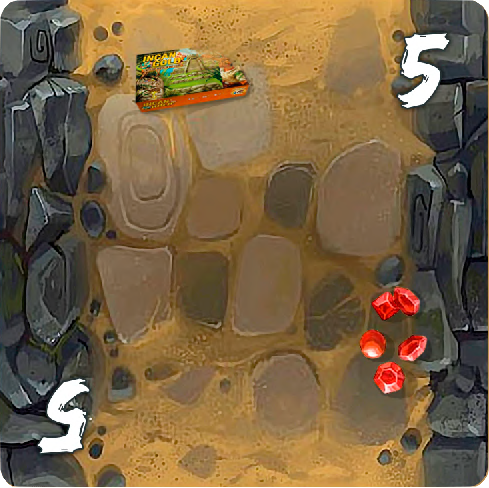
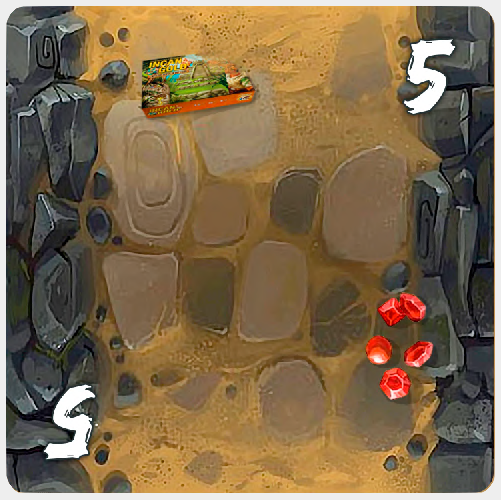
Changed how cards appear in SwingGameplayPage and fixed its Javadoc

diff --git a/src/main/java/view/page/impl/SwingGameplayPage.java b/src/main/java/view/page/impl/SwingGameplayPage.java
@@ -7,7 +7,6 @@ import java.awt.Dimension;
 import java.awt.GridBagConstraints;
 import java.awt.GridBagLayout;
 import java.awt.Image;
-import java.awt.Insets;
 import java.awt.event.ActionListener;
 import java.util.List;
 import java.util.Objects;
@@ -57,38 +56,87 @@ public class SwingGameplayPage extends SwingPage {
     private static final int WAIT_TIME_MILLIS = 1000;
 
     private static final long serialVersionUID = 1L;
-    private static final int CARDS_GAP = 2;
     private static final int CARDS_PER_ROW = 5;
     private static final int SCROLL_PIXELS = 30;
     private static final int MAX_CARDS = 35;
     private static final int MAX_LINE_LENGTH = 14;
     private static final Border BOX_BORDER = BorderFactory.createLineBorder(Color.DARK_GRAY, 2);
 
+    /**
+     * JLablel containing the round number.
+     */
     private final JLabel roundNumber = new JLabel();
+    /**
+     * JLablel containing the turn number.
+     */
     private final JLabel turnNumber = new JLabel();
+    /**
+     * JLablel containing the number of cards in the path.
+     */
     private final JLabel pathCardsNumber = new JLabel();
+    /**
+     * JLablel containing the number of redeemable relics in the path.
+     */
     private final JLabel redeemableRelics = new JLabel();
+    /**
+     * JLablel containing the number of gems in the path.
+     */
     private final JLabel pathGems = new JLabel();
+    /**
+     * JLablel containing the current player's name.
+     */
     private final JLabel playerName = new JLabel();
+    /**
+     * JLablel containing the current player's sack gems.
+     */
     private final JLabel sackGems = new JLabel();
+    /**
+     * JLablel containing the current player's chest gems.
+     */
     private final JLabel chestGems = new JLabel();
+    /**
+     * JLablel containing the game's end condition description.
+     */
     private final JLabel endConditionDescription = new JLabel();
+    /**
+     * JLablel containing the game's gem modifier description.
+     */
     private final JLabel gemModifierDescription = new JLabel();
-    private DefaultListModel<String> activePlayers;
-    private DefaultListModel<String> exitedPlayers;
-
+    /**
+     * JButton for drawing a card.
+     */
     private final JButton drawBtn = new JButton("DRAW");
-    private final SwingWindow toBlockWindow;
+    /**
+     * JPanel that contains the path info.
+     */
     private final JPanel pathInfo = new JPanel();
+    /**
+     * JPanel that contains the cards images.
+     */
     private JPanel cardsContainer = new JPanel();
+    /**
+     * List of PlayerInRound that contain the active players.
+     */
+    private DefaultListModel<String> activePlayers;
+    /**
+     * List of PlayerInRound that contain the exited players.
+     */
+    private DefaultListModel<String> exitedPlayers;
+    /**
+     * SwingWindow that represents the main application window.
+     */
+    private final SwingWindow toBlockWindow;
+    /**
+     * The GridBagContraints that contains the grid's informations.
+     */
     private GridBagConstraints gbc;
 
     /**
      * Main panel of the gameplay page.
      * 
-     * @throws NullPointerException if {@link window} is null.
-     * 
      * @param toBlockWindow the main application window.
+     * 
+     * @throws NullPointerException if @param toBlockWindow is null.
      */
     public SwingGameplayPage(final SwingWindow toBlockWindow) {
         Objects.requireNonNull(toBlockWindow);
@@ -114,9 +162,9 @@ public class SwingGameplayPage extends SwingPage {
      * Panel which contains the informations of the game's current turn and player
      * and the button for drawing a card.
      * 
-     * @throws NullPointerException if {@link boxBorder} is null.
-     * 
      * @param boxBorder the border used for the JPanels.
+     * 
+     * @throws NullPointerException if @param boxBorder is null.
      * 
      * @return  the panel itself.
      */
@@ -183,7 +231,6 @@ public class SwingGameplayPage extends SwingPage {
         this.gbc = new GridBagConstraints();
 
         gbc.anchor = GridBagConstraints.NORTHWEST;
-        gbc.insets = new Insets(CARDS_GAP, CARDS_GAP, CARDS_GAP, CARDS_GAP);
         gbc.gridx = CARDS_PER_ROW;
         gbc.gridy = 0;
         gbc.weightx = 1.0;
@@ -207,9 +254,9 @@ public class SwingGameplayPage extends SwingPage {
     /**
      * Panel which contains the list of active and exited players.
      * 
-     * @throws NullPointerException if {@link boxBorder} is null.
-     * 
      * @param boxBorder the border used for the JPanels.
+     * 
+     * @throws NullPointerException if @param boxBorder is null.
      * 
      * @return  the panel itself.
      */
@@ -259,13 +306,13 @@ public class SwingGameplayPage extends SwingPage {
     /**
      * Method that adds the image of the drawn card in the cards container.
      * 
-     * @throws NullPointerException if {@link gameplayCtrl} is null.
-     * 
      * @param gameplayCtrl  the gameplay controller.
+     * 
+     * @throws NullPointerException if @param gameplayCtrl is null.
      */
     private void addCardToPath(final GameplayControllerImpl gameplayCtrl) {
         Objects.requireNonNull(gameplayCtrl);
-        final int cardSize = this.cardsContainer.getWidth() / CARDS_PER_ROW - CARDS_GAP * 2;
+        final int cardSize = this.cardsContainer.getWidth() / CARDS_PER_ROW;
         final JLabel labelLogo;
         final Optional<Image> img = gameplayCtrl.getDrawnCardImage();
 
@@ -292,9 +339,9 @@ public class SwingGameplayPage extends SwingPage {
     /**
      * Method that populates the active players list in the GUI.
      * 
-     * @throws NullPointerException if {@link players} is null.
-     * 
      * @param players   list of the names of the active players to add.
+     * 
+     * @throws NullPointerException if @param players is null.
      */
     private void addActivePlayers(final List<String> players) {
         Objects.requireNonNull(players);
@@ -307,9 +354,9 @@ public class SwingGameplayPage extends SwingPage {
     /**
      * Method that populates the exited players list in the GUI.
      * 
-     * @throws NullPointerException if {@link players} is null.
-     * 
      * @param players   list of the names of the exited players to add.
+     * 
+     * @throws NullPointerException if @param players is null.
      */
     private void addExitedPlayers(final List<String> players) {
         Objects.requireNonNull(players);
@@ -323,9 +370,9 @@ public class SwingGameplayPage extends SwingPage {
      * Method for making the CPUs take choices without pressing the draw button
      * if there are any.
      * 
-     * @throws NullPointerException if {@link gameplayCtrl} is null.
-     * 
      * @param gameplayCtrl  the gameplay controller.
+     * 
+     * @throws NullPointerException if @param gameplayCtrl is null.
      */
     private void cpuAutoplay(final GameplayControllerImpl gameplayCtrl) {
         Objects.requireNonNull(gameplayCtrl);
